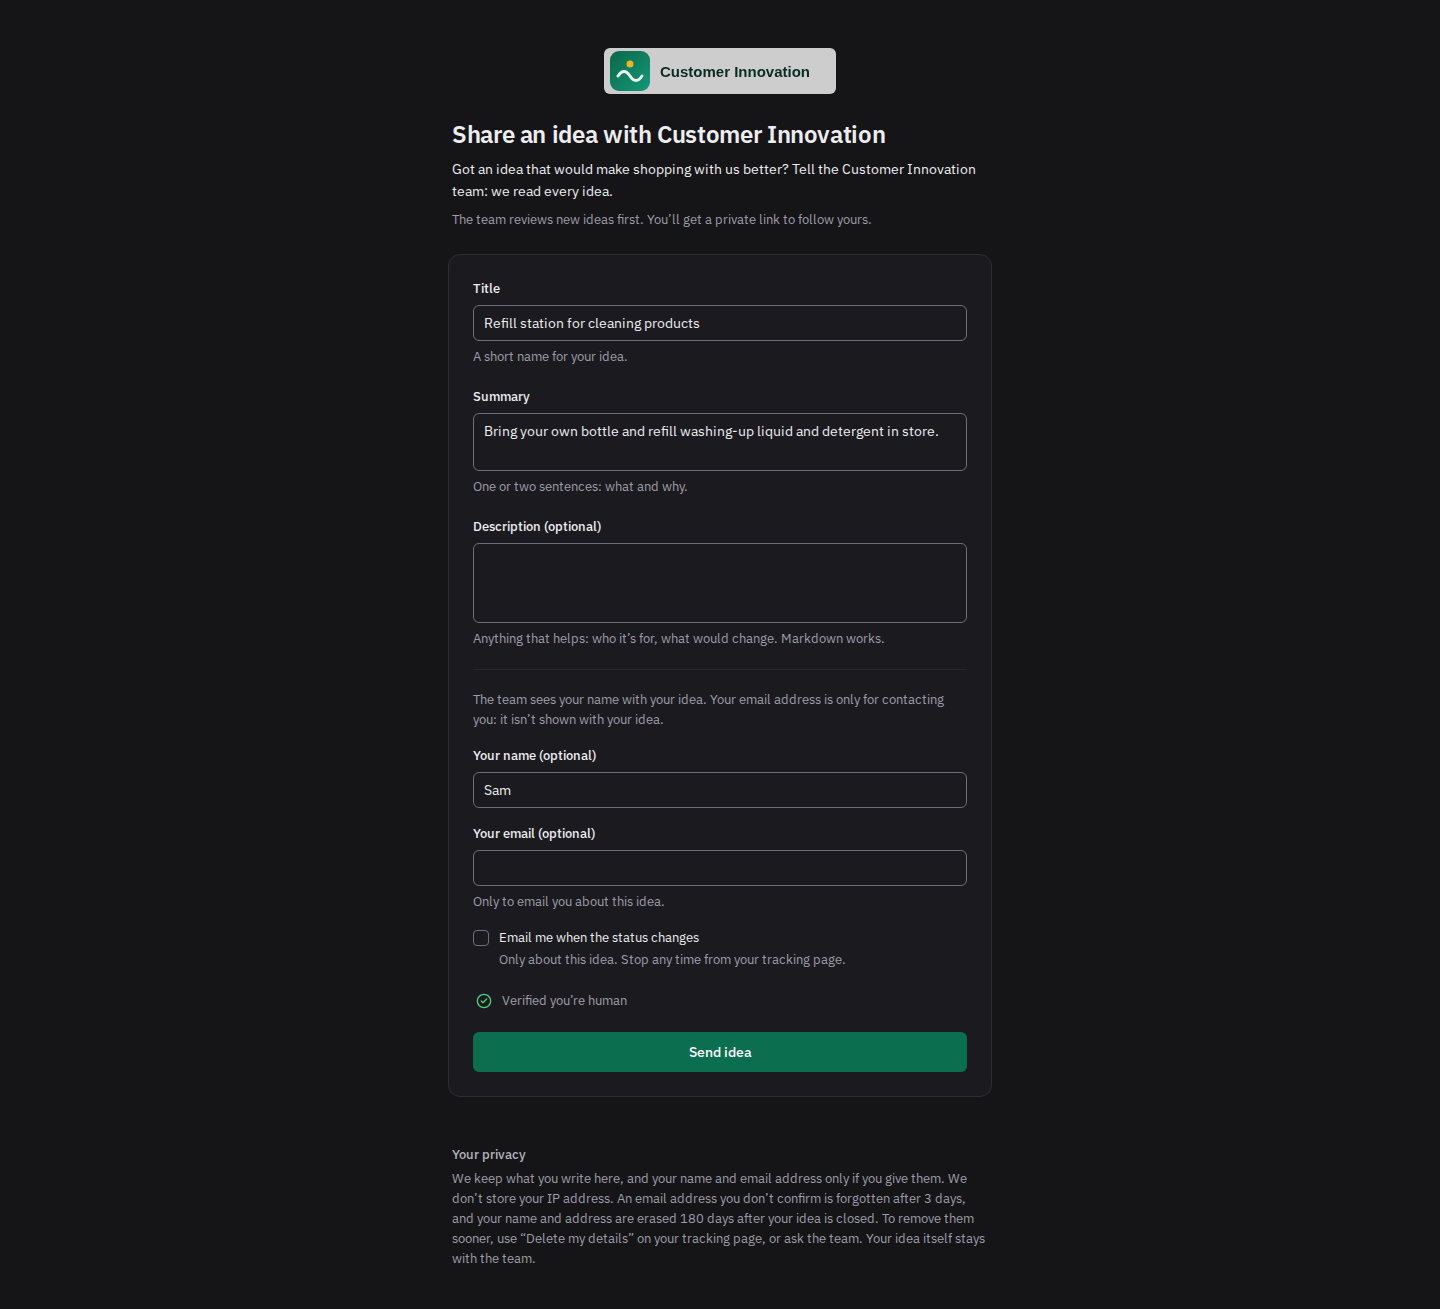
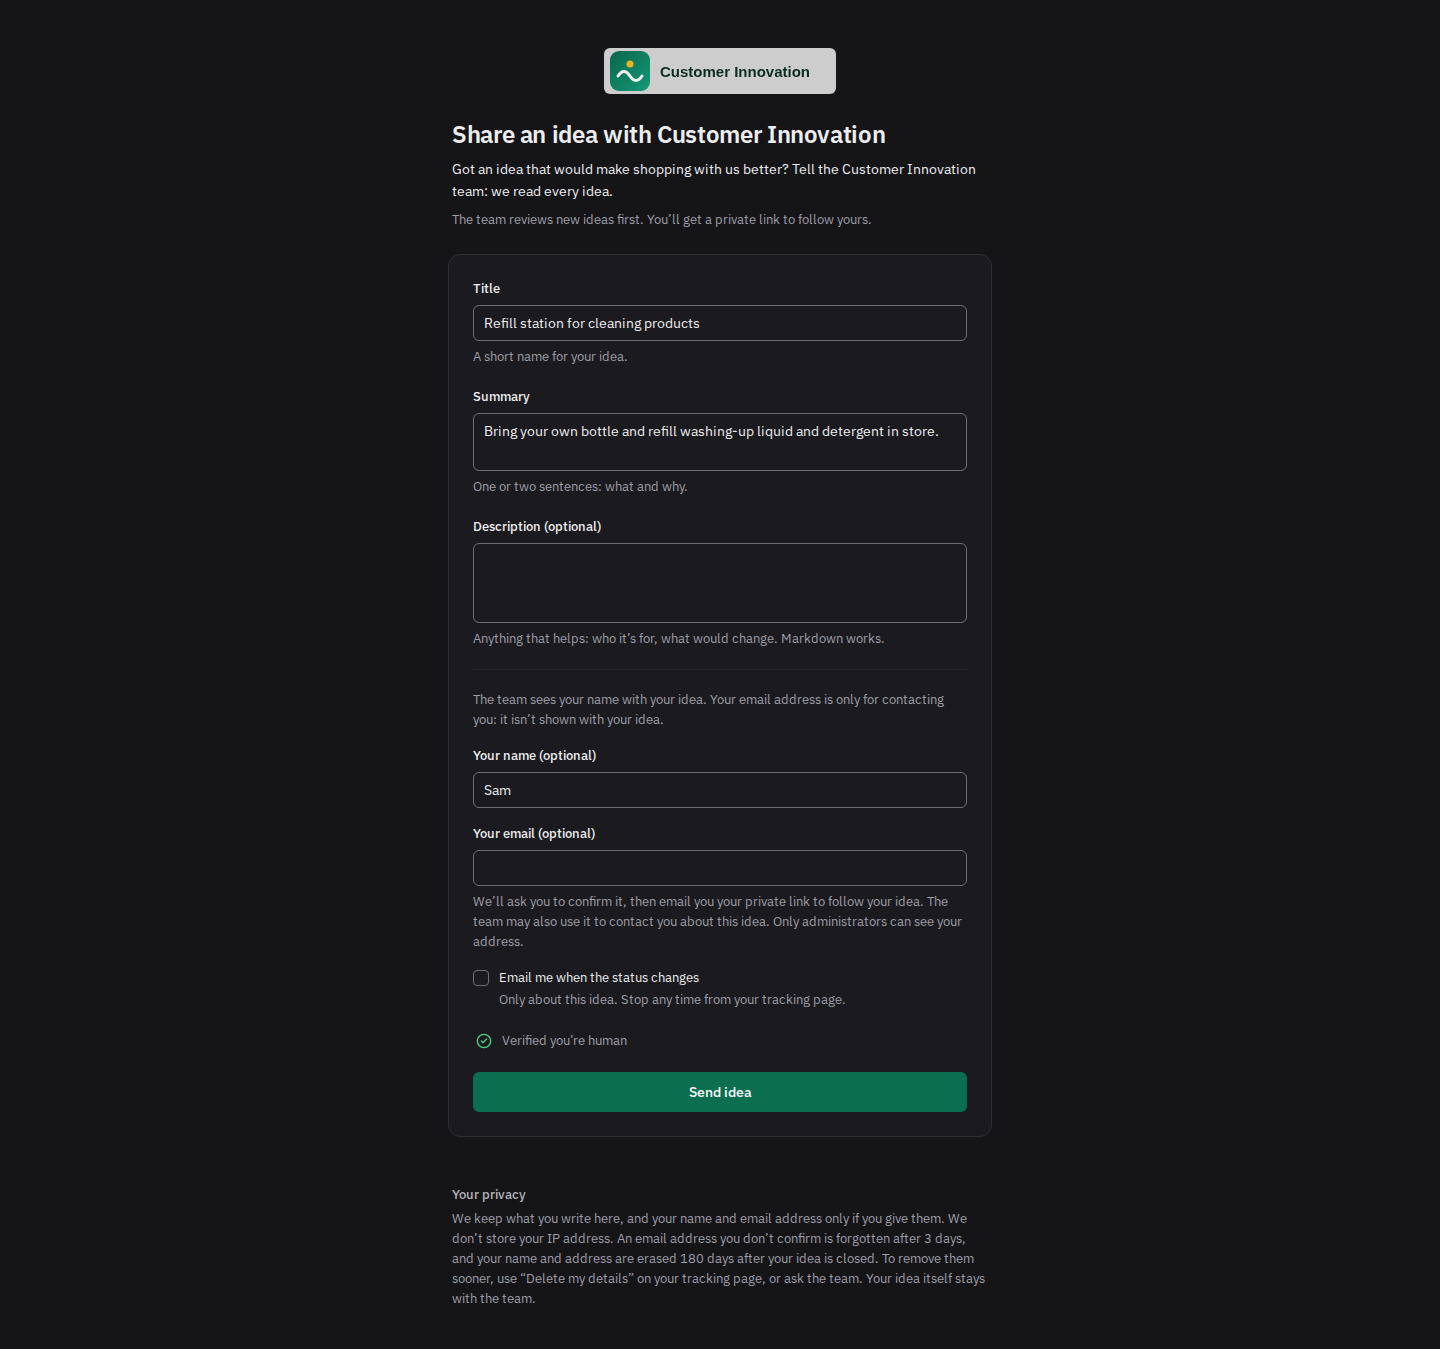
wip(phase-11): QA specs, screenshots and default e2e run green
Claude-Session: https://claude.ai/code/session_01LK4xPBBDRkz4sdTHV3p7Um

diff --git a/e2e/screenshots/phase-11.spec.ts b/e2e/screenshots/phase-11.spec.ts
@@ -29,8 +29,8 @@ import { Visitor } from '../tests/support/public'
  * - <screen>-<1440-light|1440-dark|390-light>.png: the seeded CUST-21 (priya, Customer
  *   Innovation's admin, wrote to its sender, Sam Okafor, who replied): the submission
  *   panel's Messages, the conversation sheet with a message being written, and priya's
- *   inbox with "The submitter replied"; and, on a project of their own ("Customer
- *   Innovation", archived afterwards; Nora Quinn, a new person, owns its ideas): the
+ *   inbox with "The submitter replied"; and, on a project of their own ("Home Delivery",
+ *   HOME, archived afterwards; Nora Quinn, a new person, owns its ideas): the
  *   sheet for an unconfirmed address ("only on their tracking page"), the tracking page
  *   with the conversation and the reply box, and the confirm page after a first
  *   confirmation ("We've emailed you a private link").
@@ -62,10 +62,13 @@ let arranged: Promise<Arranged> | undefined
 
 async function arrange(): Promise<Arranged> {
   const alice = await Api.as(baseURL(), 'alice')
-  const team = await messagingTeam(alice, 'Customer Innovation')
+  const team = await messagingTeam(alice, 'Home Delivery', { exact: { key: 'HOME' } })
   const visitor = await Visitor.open(baseURL())
   const confirmed = await sendPublicIdea(alice, team, visitor, {
     title: 'Reusable delivery boxes with a deposit',
+    summary:
+      'Sturdy boxes the driver collects on the next delivery, with a small deposit refunded to the customer.',
+    name: 'Sam Okafor',
     email: `sam.${uniqueSuffix()}@example.org`,
     confirm: true,
   })
@@ -85,6 +88,8 @@ async function arrange(): Promise<Arranged> {
   )
   const unconfirmed = await sendPublicIdea(alice, team, visitor, {
     title: 'A refill station for cleaning products',
+    summary: 'Bring your own bottle and fill it with washing-up liquid or detergent by weight.',
+    name: 'Ana Silva',
     email: `ana.${uniqueSuffix()}@example.org`,
   })
   await sendTeamMessage(team.owner.api, unconfirmed.key, 'Thanks, Ana! Where would it go?')
@@ -153,7 +158,7 @@ const SHOTS: Shot[] = [
       const { team, unconfirmed } = await setUp()
       await signInAs(page, team.owner)
       await page.goto(`/ideas/${unconfirmed.key}?submission=1`)
-      const sheet = messagesSheet(page, 'Sam Public')
+      const sheet = messagesSheet(page, 'Ana Silva')
       await expect(sheet).toContainText('They’ll see it only on their tracking page')
       await expect(conversation(sheet)).toHaveCount(1)
     },

diff --git a/e2e/tests/support/messages.ts b/e2e/tests/support/messages.ts
@@ -35,10 +35,12 @@ export interface MessagingTeam {
 export async function messagingTeam(
   alice: Api,
   name: string,
-  options: { moderated?: boolean } = {},
+  options: { moderated?: boolean; exact?: { key: string } } = {},
 ): Promise<MessagingTeam> {
   const { nora, theo } = await newPeople(alice, ['nora', 'theo'])
-  const project = await createTeamProject(alice, name, {})
+  const project = options.exact
+    ? await exactProject(alice, name, options.exact.key)
+    : await createTeamProject(alice, name, {})
   await alice.addMemberUser(project.slug, nora.user)
   await alice.addMemberUser(project.slug, theo.user)
   await alice.updatePublicForm(project.slug, {
@@ -47,6 +49,18 @@ export async function messagingTeam(
     intro_md: 'Tell us how to make shopping with us better. We read every idea.',
   })
   return { project, owner: nora, member: theo }
+}
+
+/**
+ * A project named exactly `name` (for review screenshots, on freshly seeded data); when a
+ * project already has that name or key (the stack wasn't reseeded), the usual run-unique one.
+ */
+async function exactProject(alice: Api, name: string, key: string): Promise<Project> {
+  try {
+    return await alice.createProject({ name, slug: `e2e-${key.toLowerCase()}`, key })
+  } catch {
+    return createTeamProject(alice, name, {})
+  }
 }
 
 export interface PublicIdea {
@@ -65,13 +79,21 @@ export async function sendPublicIdea(
   alice: Api,
   team: MessagingTeam,
   visitor: Visitor,
-  fields: { title: string; email?: string | null; confirm?: boolean; since?: Date },
+  fields: {
+    title: string
+    email?: string | null
+    confirm?: boolean
+    since?: Date
+    /** The sender's name and summary (defaults: "Sam Public", a summary from the title). */
+    name?: string
+    summary?: string
+  },
 ): Promise<PublicIdea> {
   const since = fields.since ?? new Date()
   const receipt = await visitor.submitted(team.project.slug, {
     title: fields.title,
-    summary: `${fields.title}: what we'd do, as the visitor wrote it.`,
-    name: 'Sam Public',
+    summary: fields.summary ?? `${fields.title}: what we'd do, as the visitor wrote it.`,
+    name: fields.name ?? 'Sam Public',
     email: fields.email ?? null,
     wants_updates: false,
   })

diff --git a/docs/test-plans/phase-11.md b/docs/test-plans/phase-11.md
@@ -66,6 +66,7 @@ changing it.
 | SM-06 | | "Remove my email address" on a phone: the dialog ("Your link and your messages stay."), then "We don't have an email address for you any more…", the Messages section kept; the panel then says the tracking page only; the next message not emailed. |
 | SM-07 | | A moderated project: alice (its admin) asks before approving, the submitter replies; no notification while held; the review queue's "They replied: the messages about <KEY>" opens the sheet with both messages; axe. |
 | SM-08 | | Confirming twice: `tracking_link_emailed` true then false; exactly the confirmation and one link email. |
+| SM-09 | | Admin → Email: the outbox names "Message to a public submitter" and "Tracking link (public submitter)", the rows carry neither the address nor the text; the audit log's "<Owner> messaged the submitter of <KEY>" (one entry, no text, no address). |
 | A11Y11-* | `a11y-phase11.spec.ts` | axe (serious and critical) light and dark, best practice in light without overlays: the submission panel's Messages and the conversation sheet (priya, CUST-21), priya's inbox with "The submitter replied", the public form's email help, the tracking page with the conversation and the reply box, an unconfirmed address's tracking page, the "Remove my email address" dialog, the confirm page after a first confirmation. |
 | MO11-01 | | The same screens at 390 px: no sideways scrolling, axe. |
 | MO11-02 | | On a phone, Details → Open messages opens the conversation; the sheet, not the box, takes focus. |
@@ -74,7 +75,10 @@ changing it.
 Earlier specs changed with the story (not the behaviour they test): the notification
 preferences have **13** rows ("The submitter replied"): `a11y-phase3.spec.ts`,
 `preferences.spec.ts`, `research-assignment.spec.ts` (RA-11) and `screenshots/phase-3.spec.ts`;
-`public-acceptance.spec.ts` (AC4-01) finds the intro field by its new label "Intro text".
+`public-acceptance.spec.ts` (AC4-01) finds the intro field by its new label "Intro text";
+`public-tracking.spec.ts` (PT-01) lists the tracking page's five new fields (`messages`,
+`can_reply`, `reply_blocked`, `team_messages_emailed`, `can_remove_email`) among the keys it
+allows, and checks a page without messages says `awaiting_team`.
 The demo's CUST-21 conversation changes no count an earlier spec reads (alice's inbox and My
 work are unchanged; priya's inbox has one more unread item, which no spec counts).
 
@@ -82,7 +86,8 @@ work are unchanged; priya's inbox has one more unread item, which no spec counts
 
 `docs/screenshots/phase-11/<screen>-<1440-light|1440-dark|390-light>.png`: the submission
 panel's Messages and the conversation sheet with a message being written (priya, CUST-21),
-priya's inbox with "The submitter replied", the sheet for an unconfirmed address ("only on
+priya's inbox with "The submitter replied"; on a project of its own ("Home Delivery", HOME,
+archived afterwards; Nora Quinn owns its ideas) the sheet for an unconfirmed address ("only on
 their tracking page"), the tracking page with the conversation and the reply box, the confirm
 page's new line; `emails/`: `submission-link`, `submission-message` and `submitter-replied` as
 Mailpit received them (desktop light and dark, 390 light). `npm --prefix e2e run
@@ -90,6 +95,37 @@ screenshots:phase4` re-captures Phase 4's public pages and emails whose copy cha
 email help, the receipt, the confirm page, the tracking page's "Remove my email address", the
 "Intro text" field, the confirmation email's sentence).
 
+## Defects and nits found (2026-10-17, real stack)
+
+No defect in the built behaviour: every Phase 11 rule above passed on the real stack (API,
+worker, Mailpit) in the first run that had the specs. Earlier specs changed only where the
+story did (above). Visual review of `docs/screenshots/phase-11/` and the re-captured
+`phase-4/` sets:
+
+| ID | Owner | What |
+|---|---|---|
+| P11-QA-V1 | backend (seed) | CUST-21's seeded team message says "Tracking page only" in the sheet although Sam's address is confirmed (the seed writes through the services with email off, so `emailed` is false); beside the composer's "Emailed to them and shown on their tracking page" it reads oddly in the demo (`messages-sheet-composer-*`). Accept, or seed it as emailed. |
+| P11-QA-V2 | lead (note) | CUST-21 has no owner, so the seeded team message is priya's (a project admin), not "its owner's" as D2 put it. Its panel offers "Assign owner" next to the conversation. |
+| P11-QA-V3 | frontend (nit) | The public form says twice who sees the address: the section line "Your email address is only for contacting you: it isn't shown with your idea." and the email help "…Only administrators can see your address." (`phase-4/public-submit-*`). |
+| P11-QA-V4 | qa (note) | Phase 4's receipt shot is sent without an address, so the receipt's new line ("Once you confirm your address, we'll email you this link too.") is in no screenshot; SM-01 checks it on a phone. |
+
 ## Results
 
-See "Runs" below (filled in by qa after each run).
+Local e2e stack (prefix `p11-qa-`, default ports), freshly seeded, from the tree at `6620a12`
+plus the screenshot spec's names (2026-10-17).
+
+| Check | Result |
+|---|---|
+| `test_phase11_acceptance.py` (real Mailpit) | 3 passed (22 s); Phase 3 and 4 acceptance 4 passed |
+| e2e default (`e2e`, `serial`, `smtp-outage`) | 381 passed, 67 skipped, none failed (15.0 min); Phase 10's 353 + SM-01…09 + 19 in `a11y-phase11.spec.ts` |
+| e2e `E2E_SSO=1` | (running) |
+| e2e `E2E_AI=1` | (to run) |
+| `npm --prefix e2e run check` | pass |
+| `screenshots:phase11`, `screenshots:phase4` | 19 and 37 passed; every PNG read (above) |
+
+Earlier runs on the way: the first full default run (before the Phase 11 specs) failed PT-01 (the
+tracking page's new keys: the spec's list updated) and RS-02 once (the drag library's "is over"
+announcement timed out; it passed in the two runs since); the second (lost to a container
+restart) failed SM-03/05/08/09 waiting for the whole outbox to drain behind other specs' held or
+retried email (they now wait only for their own idea's email, `ideaEmailsSettled`).
+
